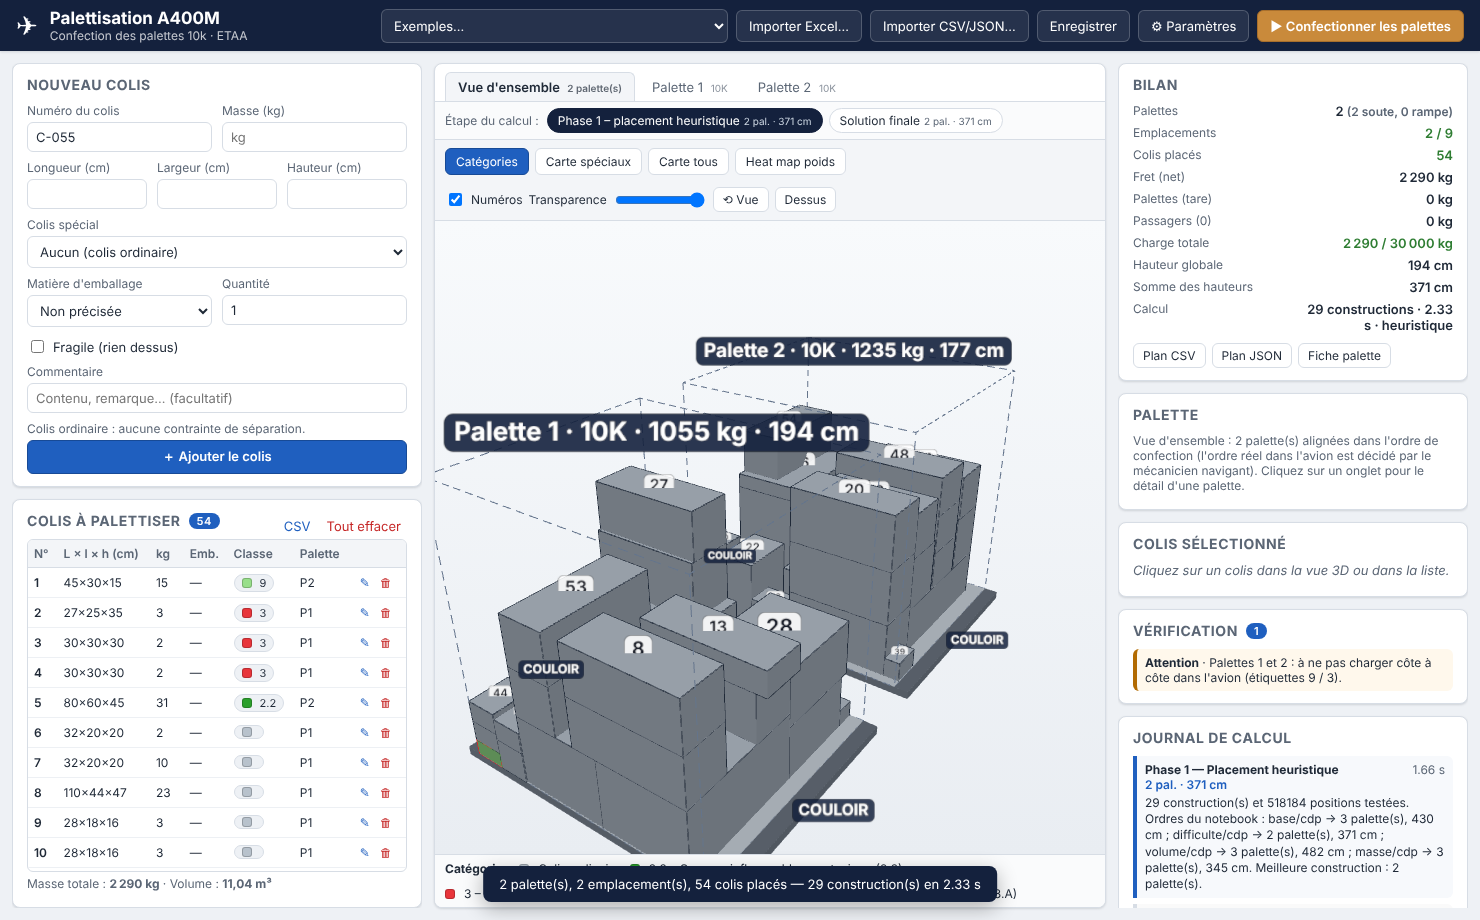
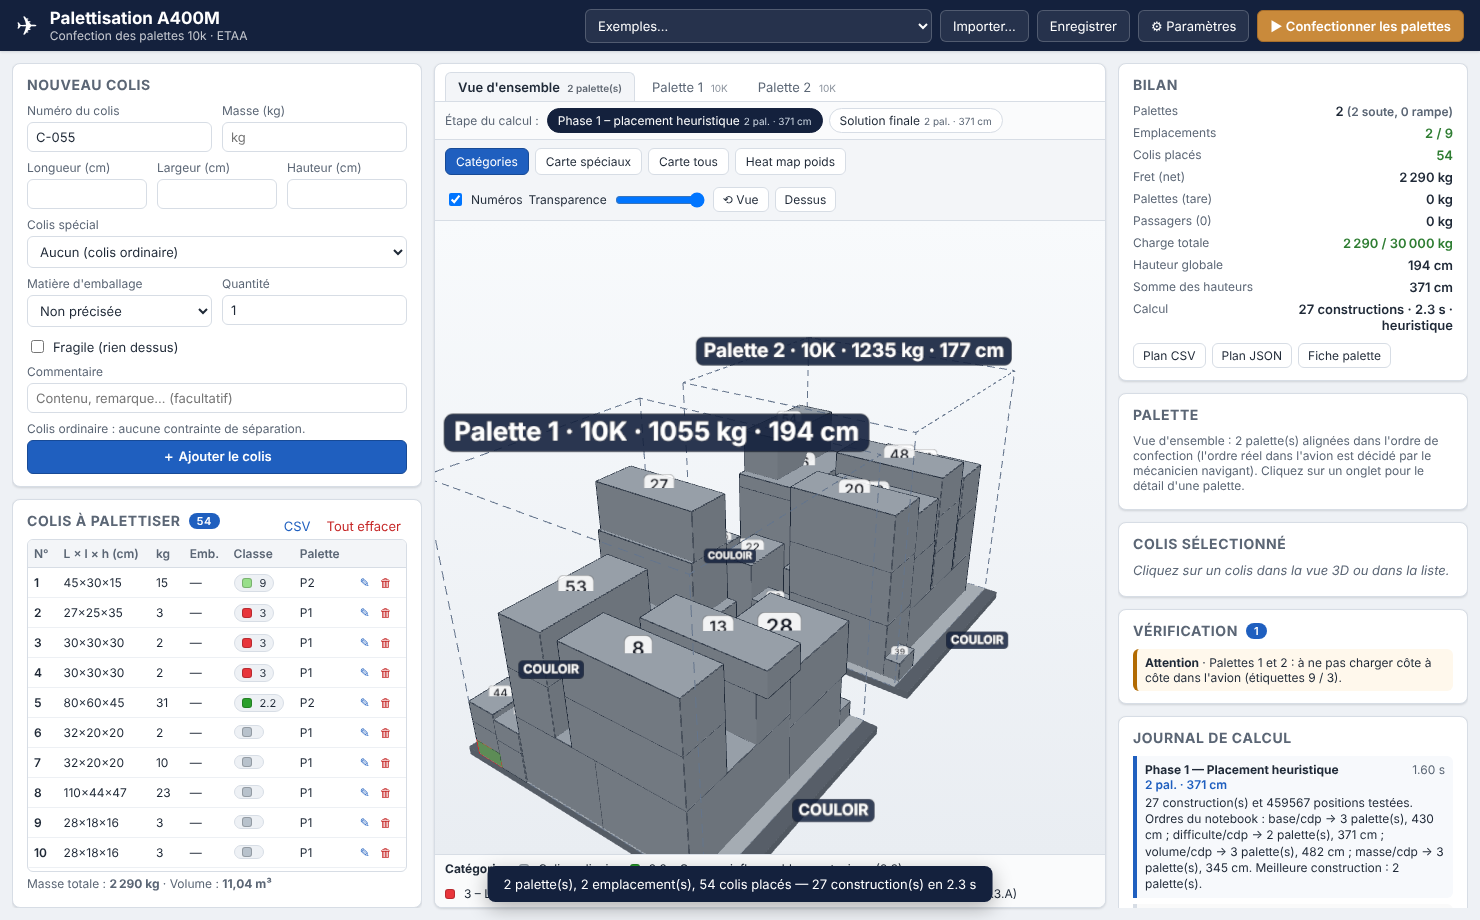
Import unifié : un seul bouton reconnaît Excel, CSV et JSON
Un classeur .xlsx choisi avec l'ancien bouton « Importer CSV/JSON… » était lu
comme du texte et donnait l'erreur « new-line character seen in unquoted
field ». Il n'y a plus qu'un bouton « Importer… » qui reconnaît le format à
l'extension puis au contenu (signature PK), lit les CSV Excel en Windows-1252,
refuse l'ancien .xls avec la marche à suivre, et lit le fichier avec
FileReader. Les erreurs de l'API texte sont désormais lisibles.

Claude-Session: https://claude.ai/code/session_011r6BarL8zu5s1kZrE5rfcE

diff --git a/ui/app.js b/ui/app.js
@@ -551,19 +551,45 @@ function afficherMessages() {
 }
 
 // ---------------------------------------------------------------- import / export
+function lireOctets(fichier) {
+  // FileReader plutôt que Blob.arrayBuffer() : fonctionne dans tous les navigateurs et fenêtres intégrées.
+  return new Promise((resolve, reject) => {
+    const lecteur = new FileReader();
+    lecteur.onload = () => resolve(lecteur.result);
+    lecteur.onerror = () => reject(new Error(`le fichier « ${fichier.name} » n'a pas pu être lu`
+      + ' (est-il ouvert dans Excel ? fermez-le ou faites-en une copie, puis réessayez)'));
+    lecteur.readAsArrayBuffer(fichier);
+  });
+}
+function decoderTexte(octets) {
+  // CSV enregistrés par Excel en français : souvent en Windows-1252, pas en UTF-8.
+  try { return new TextDecoder('utf-8', { fatal: true }).decode(octets); } catch (e) { return new TextDecoder('windows-1252').decode(octets); }
+}
+/** Point d'entrée unique : le format (Excel, CSV, JSON) est reconnu à l'extension puis au contenu. */
 async function importerFichier(fichier) {
-  const texte = await fichier.text();
   try {
-    const rep = await api('/api/importer', { texte });
-    if (!rep.colis.length) { notifier('Aucun colis lisible dans ce fichier. ' + (rep.avertissements[0] || ''), true); return; }
-    const remplacer = etat.colis.length === 0 || confirm(`Remplacer les ${etat.colis.length} colis actuels par les ${rep.colis.length} colis importés ?\n(Annuler = les ajouter à la suite)`);
-    const existants = new Set(remplacer ? [] : etat.colis.map((c) => c.numero));
-    const nouveaux = rep.colis.map((c) => ({ ...c, quantite: 1 })).filter((c) => !existants.has(c.numero));
-    etat.colis = remplacer ? nouveaux : etat.colis.concat(nouveaux);
-    if (rep.parametres) etat.parametres = { ...etat.parametres, ...rep.parametres };
-    sauvegarderLocal(); afficherListe();
-    notifier(`${nouveaux.length} colis importés depuis ${fichier.name}` + (rep.avertissements.length ? ` (${rep.avertissements.length} ligne(s) ignorée(s))` : ''));
+    const octets = await lireOctets(fichier);
+    const entete = new Uint8Array(octets.slice(0, 4));
+    const estZip = entete[0] === 0x50 && entete[1] === 0x4b;                                  // « PK » : classeur .xlsx
+    const estOle = entete[0] === 0xd0 && entete[1] === 0xcf && entete[2] === 0x11 && entete[3] === 0xe0;   // ancien .xls
+    if (estOle || /\.(xls|ods|numbers)$/i.test(fichier.name)) {
+      notifier(`« ${fichier.name} » n'est pas au format .xlsx. Dans Excel : Fichier > Enregistrer sous > Classeur Excel (*.xlsx), puis réimportez-le.`, true);
+      return;
+    }
+    if (estZip || /\.(xlsx|xlsm)$/i.test(fichier.name)) await importerExcel(fichier, octets);
+    else await importerTexte(fichier, decoderTexte(octets));
   } catch (e) { notifier('Import impossible : ' + e.message, true); }
+}
+async function importerTexte(fichier, texte) {
+  const rep = await api('/api/importer', { texte });
+  if (!rep.colis.length) { notifier('Aucun colis lisible dans ce fichier. ' + (rep.avertissements[0] || ''), true); return; }
+  const remplacer = etat.colis.length === 0 || confirm(`Remplacer les ${etat.colis.length} colis actuels par les ${rep.colis.length} colis importés ?\n(Annuler = les ajouter à la suite)`);
+  const existants = new Set(remplacer ? [] : etat.colis.map((c) => c.numero));
+  const nouveaux = rep.colis.map((c) => ({ ...c, quantite: 1 })).filter((c) => !existants.has(c.numero));
+  etat.colis = remplacer ? nouveaux : etat.colis.concat(nouveaux);
+  if (rep.parametres) etat.parametres = { ...etat.parametres, ...rep.parametres };
+  sauvegarderLocal(); afficherListe();
+  notifier(`${nouveaux.length} colis importés depuis ${fichier.name}` + (rep.avertissements.length ? ` (${rep.avertissements.length} ligne(s) ignorée(s))` : ''));
 }
 function versBase64(tampon) {
   const octets = new Uint8Array(tampon);
@@ -572,9 +598,10 @@ function versBase64(tampon) {
   return btoa(bin);
 }
 let importEnAttente = null;   // {nom, colis} en attente de confirmation dans la boîte de dialogue
-async function importerExcel(fichier) {
+async function importerExcel(fichier, octets) {
   try {
-    const rep = await api('/api/importer_cargo', { nom: fichier.name, contenu: versBase64(await fichier.arrayBuffer()) });
+    const nom = /\.(xlsx|xlsm)$/i.test(fichier.name) ? fichier.name : `${fichier.name}.xlsx`;   // reconnu au contenu : on le dit au serveur
+    const rep = await api('/api/importer_cargo', { nom, contenu: versBase64(octets) });
     if (!rep.colis.length) { notifier('Aucun colis lisible dans ce fichier. ' + (rep.avertissements[0] || ''), true); return; }
     importEnAttente = { nom: fichier.name, colis: rep.colis.map((c) => ({ ...c, quantite: 1 })) };
     const r = rep.resume;
@@ -745,8 +772,6 @@ async function initialiser() {
     notifier(`${rep.titre} : ${rep.colis.length} ligne(s) chargée(s)` + (rep.parametres ? ' avec les paramètres du notebook' : '')
       + ((rep.avertissements || []).length ? ` — ${rep.avertissements[0]}` : '') + '. Cliquez sur « Confectionner les palettes ».');
   });
-  $('#btn-importer-excel').addEventListener('click', () => $('#fichier-excel').click());
-  $('#fichier-excel').addEventListener('change', (e) => { if (e.target.files[0]) importerExcel(e.target.files[0]); e.target.value = ''; });
   $('#btn-import-remplacer').addEventListener('click', () => validerImportExcel(true));
   $('#btn-import-ajouter').addEventListener('click', () => validerImportExcel(false));
   $('#btn-import-annuler').addEventListener('click', () => { importEnAttente = null; $('#dlg-import').close(); });

diff --git a/ui/index.html b/ui/index.html
@@ -19,10 +19,8 @@
   </div>
   <div class="actions">
     <select id="sel-exemple" class="secondaire" title="Charger un jeu de colis d'exemple"><option value="">Exemples…</option></select>
-    <button id="btn-importer-excel" class="secondaire" title="Importer un manifeste de fret au format Excel (CARGO.xlsx)">Importer Excel…</button>
-    <input type="file" id="fichier-excel" accept=".xlsx,.xlsm" hidden>
-    <button id="btn-importer" class="secondaire" title="Importer une liste de colis (CSV MEAT/SILRIA ou projet JSON)">Importer CSV/JSON…</button>
-    <input type="file" id="fichier-import" accept=".csv,.txt,.json" hidden>
+    <button id="btn-importer" class="secondaire" title="Importer un manifeste Excel (.xlsx, format CARGO), une liste CSV (MEAT/SILRIA) ou un projet JSON : le format est reconnu automatiquement">Importer…</button>
+    <input type="file" id="fichier-import" accept=".xlsx,.xlsm,.csv,.txt,.json" hidden>
     <button id="btn-enregistrer" class="secondaire" title="Enregistrer la liste de colis et les paramètres (JSON)">Enregistrer</button>
     <button id="btn-parametres" class="secondaire" title="Paramètres de l'avion, des palettes et des règles">⚙ Paramètres</button>
     <button id="btn-optimiser" class="primaire" title="Calculer la répartition des colis sur les palettes">▶ Confectionner les palettes</button>
@@ -90,7 +88,7 @@
           </thead>
           <tbody></tbody>
         </table>
-        <p class="vide" id="liste-vide">Aucun colis. Ajoutez des colis avec le formulaire, importez un manifeste Excel ou un fichier CSV, ou chargez un exemple.</p>
+        <p class="vide" id="liste-vide">Aucun colis. Ajoutez des colis avec le formulaire, utilisez « Importer… » (manifeste Excel, CSV ou projet JSON) ou chargez un exemple.</p>
       </div>
       <p class="aide">Masse totale : <strong id="masse-totale">0 kg</strong> · Volume : <strong id="volume-total">0 m³</strong></p>
     </section>

diff --git a/tests/test_interface.py b/tests/test_interface.py
@@ -152,7 +152,7 @@ def test_parcours_complet(app):
     assert "plan.csv" in page.inner_text("#info-export")
 
     # --- import d'un manifeste Excel : résumé, puis remplacement de la liste
-    page.set_input_files("#fichier-excel", str(Path(__file__).resolve().parent.parent / "data" / "exemple_cargo.xlsx"))
+    page.set_input_files("#fichier-import", str(Path(__file__).resolve().parent.parent / "data" / "exemple_cargo.xlsx"))   # un seul bouton : format reconnu
     page.wait_for_selector("#dlg-import[open]")
     resume = page.inner_text("#contenu-import")
     assert "54" in resume and "14" in resume and "armes" in resume and "pièces de sécurité" in resume
@@ -176,3 +176,37 @@ def test_parcours_complet(app):
         .filter(q => window.palettiseur.etat.classes[q.colis.classe]?.iata).map(q => [q.acces_iata.length, q.bord_iata.length])""")
     assert len(iata) == 5 and all(a > 0 and b > 0 for a, b in iata)
     assert erreurs == []
+
+
+def test_import_unifie_reconnait_le_format(app, tmp_path):
+    """Un seul bouton « Importer… » : le .xlsx n'est plus lu comme du texte, un CSV Excel en Windows-1252 garde ses accents."""
+    page, serveur = app
+    page.on("dialog", lambda d: d.accept())
+    page.goto(serveur.url)
+    page.wait_for_function("window.palettiseur && window.palettiseur.etat.config")
+    assert page.locator("#btn-importer-excel").count() == 0 and page.locator("#fichier-excel").count() == 0
+    page.evaluate("window.palettiseur.etat.colis = []")
+    exemple = Path(__file__).resolve().parent.parent / "data" / "exemple_cargo.xlsx"
+
+    # .xlsx dont l'extension a été changée : reconnu au contenu (signature « PK »), pas lu comme du texte
+    copie = tmp_path / "manifeste.dat"
+    copie.write_bytes(exemple.read_bytes())
+    page.set_input_files("#fichier-import", str(copie))
+    page.wait_for_selector("#dlg-import[open]")
+    assert "54" in page.inner_text("#contenu-import")
+    page.click("#btn-import-annuler")
+
+    # CSV enregistré par Excel en français (Windows-1252, séparateur point-virgule)
+    csv = tmp_path / "liste.csv"
+    csv.write_bytes("numero;longueur;largeur;hauteur;masse;classe;emballage;commentaire\nA-1;80;60;50;12;;carton;Caisse à café\n".encode("cp1252"))
+    page.set_input_files("#fichier-import", str(csv))
+    page.wait_for_function("window.palettiseur.etat.colis.length === 1")
+    c = page.evaluate("window.palettiseur.etat.colis[0]")
+    assert c["numero"] == "A-1" and c["emballage"] == "carton" and c["commentaire"] == "Caisse à café"
+
+    # ancien format .xls : message clair, aucune erreur technique
+    xls = tmp_path / "ancien.xls"
+    xls.write_bytes(bytes.fromhex("d0cf11e0a1b11ae1") + b"\x00" * 64)
+    page.set_input_files("#fichier-import", str(xls))
+    page.wait_for_selector("#notification:not([hidden])")
+    assert "Enregistrer sous" in page.inner_text("#notification") and "xlsx" in page.inner_text("#notification")

diff --git a/palettiseur/api.py b/palettiseur/api.py
@@ -3,6 +3,7 @@
 from __future__ import annotations
 
 import base64
+import csv
 import binascii
 import json
 
@@ -131,9 +132,15 @@ def lancer_optimisation(liste_colis: list[dict], parametres: dict | None) -> dic
 def importer_texte(texte: str) -> dict:
     """Importe une liste de colis depuis un CSV ou un JSON (projet enregistré)."""
     texte_strip = texte.strip()
+    if texte_strip.startswith("PK") or "\x00" in texte[:2000]:
+        raise ValueError("ce fichier est binaire (classeur Excel ?) : enregistrez-le au format .xlsx "
+                         "et utilisez « Importer… », qui lit les .xlsx, les .csv et les projets .json")
     if texte_strip.startswith("{") or texte_strip.startswith("["):
         import json
-        data = json.loads(texte_strip)
+        try:
+            data = json.loads(texte_strip)
+        except ValueError:
+            raise ValueError("fichier JSON invalide : ce n'est pas un projet enregistré par l'application") from None
         if isinstance(data, dict):
             liste = data.get("colis", [])
             parametres = data.get("parametres")
@@ -149,7 +156,10 @@ def importer_texte(texte: str) -> dict:
             else:
                 valides.append(c)
         return {"colis": [c.vers_dict() for c in valides], "avertissements": avert, "parametres": parametres}
-    colis, avert = fichiers.lire_csv(texte)
+    try:
+        colis, avert = fichiers.lire_csv(texte)
+    except csv.Error:
+        raise ValueError("fichier illisible : ce n'est ni un CSV ni un projet JSON valide") from None
     return {"colis": [c.vers_dict() for c in colis], "avertissements": avert, "parametres": None}
 
 

diff --git a/tests/test_import_cargo.py b/tests/test_import_cargo.py
@@ -203,3 +203,14 @@ def test_table_des_emballages():
     assert e.code_depuis_texte("inconnu") == ""
     assert e.ecrasable("carton") and e.ecrasable("fibre") and not e.ecrasable("bois") and not e.ecrasable("")
     assert sorted(e.codes_ecrasables()) == ["carton", "fibre"]
+
+
+def test_un_classeur_envoye_a_l_import_texte_donne_un_message_clair():
+    """Le .xlsx envoyé par erreur à l'import CSV/JSON ne doit plus produire « new-line character seen in unquoted field »."""
+    brut = chemin_donnees("exemple_cargo.xlsx").read_bytes().decode("latin-1")
+    with pytest.raises(ValueError, match="binaire"):
+        api.importer_texte(brut)
+    with pytest.raises(ValueError, match="JSON invalide"):
+        api.importer_texte("{pas du json")
+    with pytest.raises(ValueError, match="illisible"):
+        api.importer_texte("a;b\rc;d\n")        # retour chariot isolé au milieu d'une ligne

diff --git a/README.md b/README.md
@@ -31,7 +31,7 @@ l'avion) sur 274 cm de large**, avec **14 cm de couloir de chaque côté de la l
 | Demande | Réalisation |
 |---|---|
 | Saisie simple d'un colis | Formulaire : numéro, longueur / largeur / hauteur (cm), masse (kg), menu déroulant **Colis spécial** (classes IATA : explosifs, carburant, gaz, comburants, corrosifs, radioactifs… + armement), **matière d'emballage**, case **Fragile**, commentaire libre (vide par défaut), quantité. Plus de case « renversable » : un colis garde toujours sa hauteur à la verticale. |
-| Import d'un manifeste Excel | Bouton **Importer Excel…** : lit un fichier `.xlsx` au format `CARGO.xlsx` (voir [Import Excel](#import-dun-manifeste-excel)) : armes et pièces de sécurité reconnues dans la désignation, numéro = 4 derniers chiffres de la dernière colonne, matière d'emballage lue, température ignorée. |
+| Import d'un manifeste Excel | Bouton **Importer…** (un seul pour tous les formats, reconnus à l'extension puis au contenu) : lit un fichier `.xlsx` au format `CARGO.xlsx` (voir [Import Excel](#import-dun-manifeste-excel)) : armes et pièces de sécurité reconnues dans la désignation, numéro = 4 derniers chiffres de la dernière colonne, matière d'emballage lue, température ignorée. |
 | Import des listes MEAT / SILRIA | Import CSV (séparateur `;` `,` ou tabulation, noms de colonnes reconnus automatiquement) et JSON ; export CSV de la liste. |
 | Répartition des colis | Pipeline en cinq phases du notebook CDP_3 : minimise les emplacements, abaisse les colis par tassement vertical, puis recentre. Fonctionne **sans solveur** (heuristique, quelques secondes) ou **avec SCIP** (moteur exact facultatif, amorcé par l'heuristique). |
 | Colis lourd jamais sur colis léger | Contrainte dure dans toutes les phases : un colis ne repose que sur des colis au moins aussi lourds que lui (facteur paramétrable). |
@@ -78,7 +78,7 @@ Double-cliquer sur **`build_windows.bat`** (ou `python -m PyInstaller PaletteA40
 
 ## Utilisation
 
-1. **Saisir les colis** dans le formulaire de gauche (ou *Exemples…*, ou *Importer Excel…* un manifeste, ou *Importer CSV/JSON…*). La liste est conservée automatiquement d'une session à l'autre.
+1. **Saisir les colis** dans le formulaire de gauche (ou *Exemples…*, ou *Importer…* un manifeste Excel `.xlsx`, un CSV ou un projet JSON : le format est reconnu automatiquement). La liste est conservée automatiquement d'une session à l'autre.
 2. **Paramètres** (⚙) : nombre de passagers, dimensions de la palette (224 × 274 cm), espace de couloir par côté (14 cm), dérogation sans couloir, hauteur maximale, masses limites, règles (support minimal, facteur masse, colis IATA sur le bord, matières à ne pas écraser et charge tolérée dessus), moteur, budget de l'heuristique, temps SCIP par étape.
 3. **Confectionner les palettes** : le plan apparaît en 3D. Onglets : vue d'ensemble / palette par palette. Boutons de mode : *Catégories*, *Carte spéciaux*, *Carte tous*, *Heat map poids*. Barre **Étape du calcul** : *Phase 1 – placement heuristique*, *Phase 2 – après SCIP* (moteur SCIP), *Solution finale*.
 4. **Cliquer sur un colis** (dans la vue 3D, dans la liste ou dans un message de vérification) pour ses détails.
@@ -122,7 +122,7 @@ Une fenêtre de résumé s'affiche avant l'import (colis lus, armes, pièces de 
 
 ![Import d'un manifeste Excel](docs/captures/import_excel.png)
 
-Le lecteur `.xlsx` n'a besoin d'aucune bibliothèque : il ouvre l'archive et lit le XML avec la bibliothèque standard (taille limitée, entités XML refusées). Les formats `.xls` et `.csv` d'Excel ne sont pas lus : enregistrez le fichier en `.xlsx`. Attention aux numéros de série de 18 chiffres : si Excel les a enregistrés comme des nombres, leurs derniers chiffres peuvent déjà être arrondis dans le fichier ; l'application le signale, enregistrez alors la colonne au format texte.
+Le lecteur `.xlsx` n'a besoin d'aucune bibliothèque : il ouvre l'archive et lit le XML avec la bibliothèque standard (taille limitée, entités XML refusées). L'ancien format `.xls` n'est pas lu (message explicite) : enregistrez le fichier en `.xlsx`. Un fichier ouvert dans Excel peut être refusé par le navigateur : fermez-le ou importez une copie. Attention aux numéros de série de 18 chiffres : si Excel les a enregistrés comme des nombres, leurs derniers chiffres peuvent déjà être arrondis dans le fichier ; l'application le signale, enregistrez alors la colonne au format texte.
 
 ## Emballages et cartons
 
